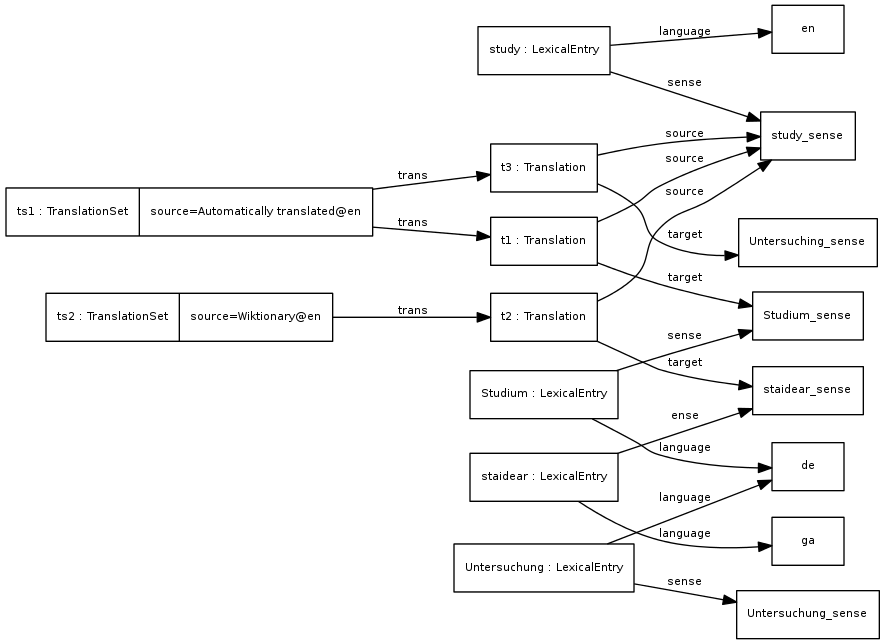
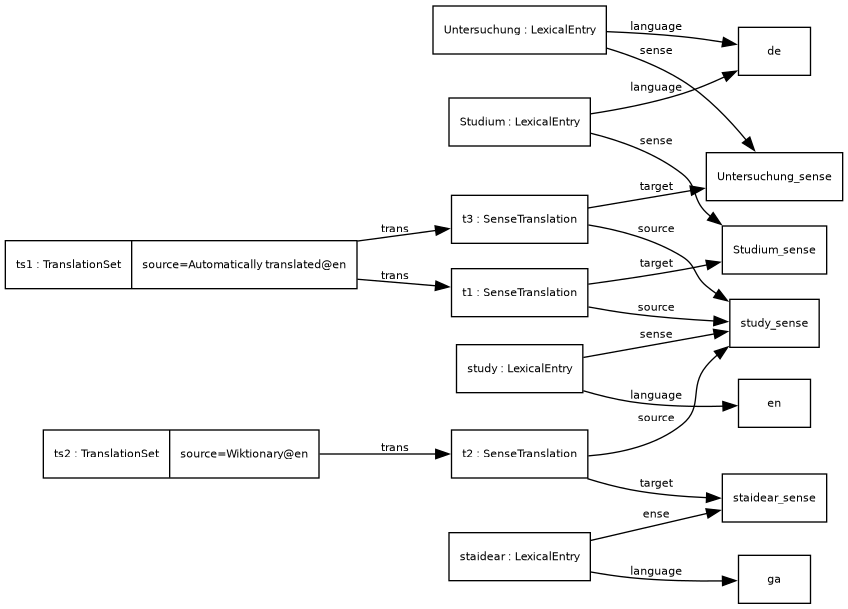
Rename vartrans:Translation to vartrans:SenseTranslation (issue #66)
The class and the translation property shared a name that is
indistinguishable under ReSpec's case-insensitive definition
matching. Renames the class to vartrans:SenseTranslation and keeps
vartrans:Translation as a deprecated class declared
owl:equivalentClass to the new name for backwards compatibility.

Also fixes expand_tags.py: the equivalentClass tag could never match
because BeautifulSoup lowercases parsed tag names, so the dict key
needed to be "equivalentclass" rather than "equivalentClass".

Changed region(s): [[0.0, 0.0, 1.0, 0.9984], [0.0613, 0.78, 0.3679, 0.8112]]

diff --git a/Scripts/expand_tags.py b/Scripts/expand_tags.py
@@ -18,7 +18,7 @@ tags_to_expand = {
         "subclass": {"rel": "rdfs:subClassOf"},
         "subproperty": {"rel": "rdfs:subPropertyOf"},
         "inverse": {"rel": "owl:inverseOf"},
-        "equivalentClass": {"rel": "owl:equivalentClass"},
+        "equivalentclass": {"rel": "owl:equivalentClass"},
         }
 
 tags_text = {
@@ -27,7 +27,7 @@ tags_text = {
         "subclass": "Subclass:",
         "subproperty": "Subproperty:",
         "inverse": "Inverse Property:",
-        "equivalentClass": "Equivalent Class:",
+        "equivalentclass": "Equivalent Class:",
         }
 
 characteristics = {

diff --git a/index.md b/index.md
@@ -2845,17 +2845,27 @@ in that they denote the same class in the ontology.
 ## Translation as a relation between lexical senses
 
 The second alternative mentioned above can be realized through the class
-[=translation=], which relates two senses that
+[=sense translation=], which relates two senses that
 can be regarded as equivalent in that they can be exchanged for each
 other.
+
+<div class="entity" about="vartrans:SenseTranslation" typeof="owl:Class">
+<class property="rdfs:label" lang="en">Sense Translation</class>
+
+<div property="rdfs:comment"> A <dfn>sense translation</dfn> is a sense relation expressing that two lexical senses corresponding to two lexical entries in different languages can be translated to each other without any major meaning shifts. </div>
+
+<div class="description">
+<subclass>[=Sense Relation=]</subclass>
+</div>
+</div>
 
 <div class="entity" about="vartrans:Translation" typeof="owl:Class">
 <class property="rdfs:label" lang="en">Translation</class>
 
-<div property="rdfs:comment"> A <dfn>translation</dfn> is a sense relation expressing that two lexical senses corresponding to two lexical entries in different languages can be translated to each other without any major meaning shifts. </div>
+<div property="rdfs:comment"> This class has been renamed to Sense Translation, as its identifier could not be reliably distinguished from the translation property under case-insensitive matching (see issue 66). It is retained here, equivalent to Sense Translation, for backwards compatibility. </div>
 
 <div class="description">
-<subclass>[=Sense Relation=]</subclass>
+<equivalentClass>[=Sense Translation=]</equivalentClass>
 </div>
 </div>
 
@@ -2877,7 +2887,7 @@ desc](Examples/vartrans/example6.png)](Examples/vartrans/example6.png){.tn}
 :postleitzahl_sense ontolex:reference <http://de.dbpedia.org/resource/Postleitzahl>.
 
 
-:trans a vartrans:Translation;
+:trans a vartrans:SenseTranslation;
        vartrans:source :zip_code_sense;
        vartrans:target :postleitzahl_sense;
        vartrans:category <http://purl.org/net/translation-categories#directEquivalent>.
@@ -2889,17 +2899,17 @@ Thus, in spite of using having different denotations, both
 *Postleitzahl* and *zip code* can be seen as cross-lingual equivalents
 and thus as translations of each other.
 
-Besides the class [=Translation=], which reifies
+Besides the class [=Sense Translation=], which reifies
 the translation relation between two lexical senses, as a shortcut the
 model also allows us to directly express the relation of translation
-between lexical senses by the 
-[=translation property=] that is regarded as equivalent to
+between lexical senses by the property
+[=translation=] that is regarded as equivalent to
 the reification:
 
 <div class="entity" about="vartrans:translation" typeof="owl:ObjectProperty">
 <objectProperty property="rdfs:label" lang="en">Translation</objectProperty>
 
-<div property="rdfs:comment"> The <dfn>translation property</dfn> relates two lexical senses of two lexical entries that stand in a translation relation to one another. </div>
+<div property="rdfs:comment"> The <dfn>translation</dfn> property relates two lexical senses of two lexical entries that stand in a translation relation to one another. </div>
 
 <div class="description">
 <subproperty>[=Sense Relation=]</sub>
@@ -3010,7 +3020,7 @@ translations.</div>
 
 <div class="description">
 <domain>[=Translation Set=]</domain>
-<range>[=Translation=]</range>
+<range>[=Sense Translation=]</range>
 </div>
 </div>
 
@@ -3035,15 +3045,15 @@ desc](Examples/vartrans/example10.png)](Examples/vartrans/example10.png){.tn}
   ontolex:ense :staidear_sense ;
   dct:language iso639:ga .
 
-:t1 a vartrans:Translation ;
+:t1 a vartrans:SenseTranslation ;
   vartrans:source :study_sense ;
   vartrans:target :Studium_sense .
 
-:t2 a vartrans:Translation ;
+:t2 a vartrans:SenseTranslation ;
   vartrans:source :study_sense ;
   vartrans:target :staidear_sense .
 
-:t3 a vartrans:Translation ;
+:t3 a vartrans:SenseTranslation ;
   vartrans:source :study_sense ;
   vartrans:target :Untersuchung_sense .
 
@@ -4221,7 +4231,7 @@ desc](Examples/vartrans/example9.png)](Examples/vartrans/example9.png){.tn}
         dc:source <http://hdl.handle.net/10230/17110> ;
         vartrans:trans :bench_banco-trans .
 
-:bench_banco-trans a vartrans:Translation ;
+:bench_banco-trans a vartrans:SenseTranslation ;
         vartrans:source :bench-sense ;
         vartrans:target :banco-sense .
 
